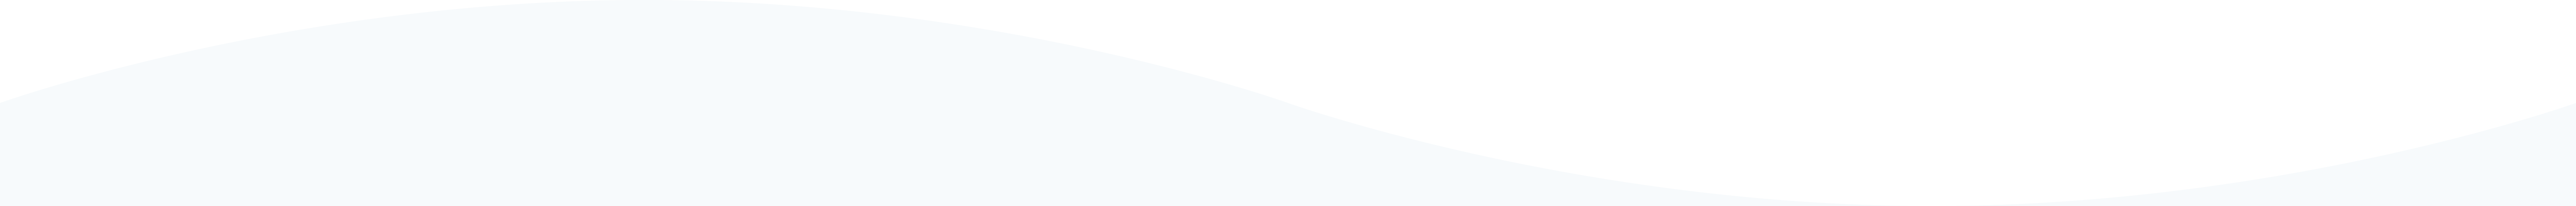
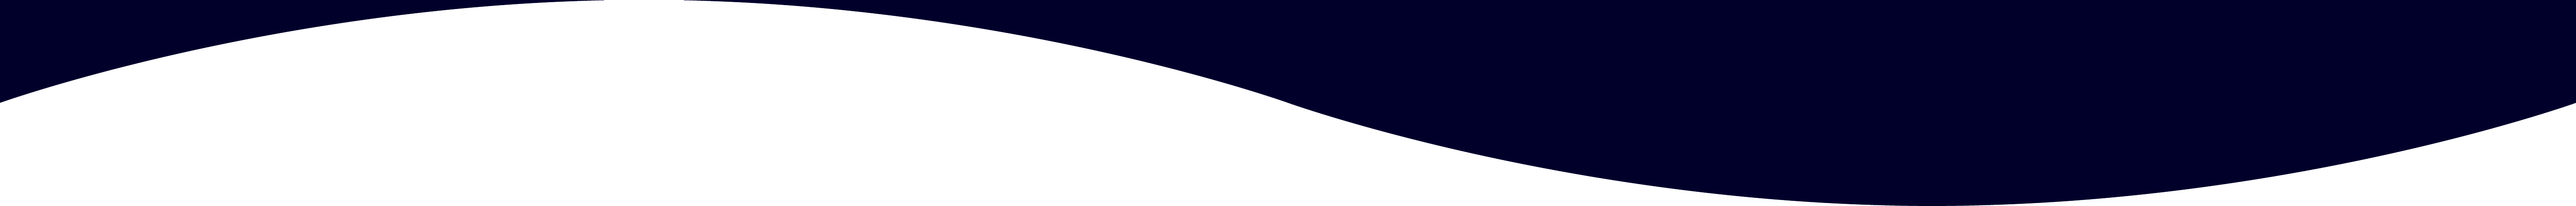
Navbar responsive for landing page, little fixes

diff --git a/css/css-home/style.css b/css/css-home/style.css
@@ -74,6 +74,55 @@ header {
   padding-top: 2em;
 }
 
+header .barra {
+  -webkit-transition-duration: 1s;
+          transition-duration: 1s;
+  display: -webkit-box;
+  display: -ms-flexbox;
+  display: flex;
+  color: white;
+  padding: 1em 0.5em 2em 0.5em;
+  font-size: 1.73em;
+  font-family: 'Roboto';
+}
+
+header .barra .derecho {
+  width: 50%;
+  text-align: right;
+  font-family: 'Awesome';
+}
+
+header .barra .izquierdo {
+  width: 50%;
+  text-align: left;
+}
+
+header .barraFixed {
+  -webkit-transition-duration: 1s;
+          transition-duration: 1s;
+  display: -webkit-box;
+  display: -ms-flexbox;
+  display: flex;
+  background: white;
+  width: 100%;
+  color: black;
+  position: fixed;
+  padding: 0.6em;
+  font-size: 1.73em;
+  font-family: 'Roboto';
+}
+
+header .barraFixed .derecho {
+  width: 50%;
+  text-align: right;
+  font-family: 'Awesome';
+}
+
+header .barraFixed .izquierdo {
+  width: 50%;
+  text-align: left;
+}
+
 header nav {
   width: 100%;
   display: -webkit-box;
@@ -102,8 +151,10 @@ header nav li a {
 
 section#main {
   padding: 0;
+  margin: 0;
   background: #00002E;
   color: white;
+  padding-bottom: 1em;
 }
 
 section#main .contenedor .padre {
@@ -112,7 +163,6 @@ section#main .contenedor .padre {
   display: flex;
   -ms-flex-wrap: wrap;
       flex-wrap: wrap;
-  margin-bottom: 6em;
   padding: 2%;
 }
 
@@ -173,7 +223,6 @@ section#main .contenedor .padre .derecho {
 
 section#main .r {
   padding: 0;
-  height: 95.03px;
 }
 
 section#main .r img {
@@ -182,7 +231,7 @@ section#main .r img {
 }
 
 section#about {
-  background: #F7FAFC;
+  background: white;
 }
 
 section#about .contenedor .padre {
@@ -218,9 +267,16 @@ section#about .contenedor .padre .caja p {
   section#main .contenedor .padre .izquierdo {
     width: 100%;
     padding: 1%;
+    padding-bottom: 2em;
   }
   section#main .r {
     height: 100%;
+  }
+  header {
+    padding: 0;
+  }
+  header nav {
+    display: none;
   }
 }
 /*# sourceMappingURL=style.css.map */

diff --git a/css/css-home/style.scss b/css/css-home/style.scss
@@ -69,6 +69,44 @@ HEADER
 */
 
 header {
+  .barra{
+    transition-duration: 1s;
+    display: flex;
+    color: white;
+    padding: 1em 0.5em 2em 0.5em;
+    font-size: 1.73em;
+    font-family: 'Roboto';
+    .derecho{
+      width: 50%;
+      text-align: right;
+      font-family: 'Awesome';
+    }
+    .izquierdo{
+      width: 50%;
+      text-align: left;
+    }
+  }
+  .barraFixed{
+    transition-duration: 1s;
+    display: flex;
+    background: white;
+    width: 100%;
+    color: black;
+    position: fixed;
+    padding: 0.6em;
+    font-size: 1.73em;
+    font-family: 'Roboto';
+    .derecho {
+      width: 50%;
+      text-align: right;
+      font-family: 'Awesome';
+    }
+
+    .izquierdo {
+      width: 50%;
+      text-align: left;
+    }
+  }
   background: #00002E;
   padding-bottom: 2em;
   padding-top: 2em;
@@ -94,13 +132,15 @@ header {
 
 section#main {
   padding: 0;
+  margin: 0;
   background: #00002E;
   color: white;
+  padding-bottom: 1em;
   .contenedor {
     .padre {
       display: flex;
       flex-wrap: wrap;
-      margin-bottom: 6em;
+      //margin-bottom: 0.5em;
       padding: 2%;
       .izquierdo {
         width: 50%;
@@ -110,6 +150,7 @@ section#main {
         flex-direction: column;
         justify-content: center;
         align-items: center;
+
         h1 {
           font-family: 'Roboto';
           font-weight: 700;
@@ -146,7 +187,6 @@ section#main {
   }
   .r {
     padding: 0;
-    height: 95.03px;
     img {
       width: 100%;
       height: 100%;
@@ -155,7 +195,7 @@ section#main {
 }
 
 section#about {
-  background: #F7FAFC;
+  background: white;
   .contenedor {
     .padre {
       padding: 2em;
@@ -190,11 +230,18 @@ section#about {
         .izquierdo {
           width: 100%;
           padding: 1%;
+          padding-bottom: 2em;
         }
       }
     }
     .r {
       height: 100%;
+    }
+  }
+  header{
+    padding: 0;
+    nav{
+      display: none;
     }
   }
 }

diff --git a/js/animations.js b/js/animations.js
@@ -1,42 +1,11 @@
 $(document).ready(function () {
-
-    var lateral = 0;
-    var contenido = 1;
-    inici();
-
-    setInterval(inici, 12000);
-    function inici(){
-         var tiempo = setTimeout(function(){
-            better('#e2,#e3,#e4','#e1','#e1 .nav .c2','#e1 .nav .c1');
-            tiempo = setTimeout(function(){
-                better('#e1,#e2,#e4','#e3','#e3 .nav .c3','#e3 .nav .c1');
-                tiempo = setTimeout(function(){
-                    better('#e3,#e2,#e1','#e4','#e4 .nav .c4','#e4 .nav .c1');
-                    tiempo = setTimeout(function(){
-                        better('#e4,#e3,#e1','#e2','#e4 .nav .c4','#e4 .nav .c1');
-                        clearTimeout(tiempo);
-                    },4000);
-                },4000);
-            },4000);
-        },4000);
-    }
-    function better(element1, element2,element3,element4, color1, color2){
-        $(element1).css("display","none");
-        $(element2).css("display","block");
-        $(element3).css("color","black");
-        $(element4).css("color","white");
-    }
-
-    $('#lat').click(function () {
-        if ($lateral == 0) {
-            $('.fors').css("marginLeft", "0");
-            $lateral = 1;
+    $(window).scroll(function(){
+        if($(this).scrollTop() > 60){
+            $("header .barra").attr('class', 'barraFixed');
         } else {
-            $('.fors').css("marginLeft", "-100%");
-            $lateral = 0;
+            $("header .barraFixed").attr('class', 'barra');
         }
     });
-
     $('#formulario').submit(function (e) {
         $.ajax({
             type: 'POST',

diff --git a/index.html b/index.html
@@ -2,13 +2,16 @@
 <html>
 <head>
     <meta charset="utf-8" />
-    <meta http-equiv="X-UA-Compatible" content="IE=edge">
     <title>Sistema SGC</title>
     <meta name="viewport" content="width=device-width, initial-scale=1">
     <link rel="stylesheet" type="text/css" media="screen" href="css/css-home/style.css" />
 </head>
 <body>
     <header>
+        <div class="barra">
+            <div class="izquierdo">LOGOTIPO</div>
+            <div class="derecho"></div>
+        </div>
         <div class="contenedor">
             <nav>
                 <li><a href="#">Inicio</a></li>
@@ -31,10 +34,8 @@
                 </div>
             </div>
         </div>
-        <div class="r">
-            <img src="img/pattern.png" alt="">
-        </div>
     </section>
+    <img width = "100%" src="img/pattern.png" alt="">
     <section id="about">
         <div class="contenedor">
             <div class="padre">
@@ -65,6 +66,7 @@
             </div>
         </div>
     </section>
-    <script src="main.js"></script>
+    <script src="js/jquery.min.js"></script>
+    <script src="js/animations.js"></script>
 </body>
 </html>
